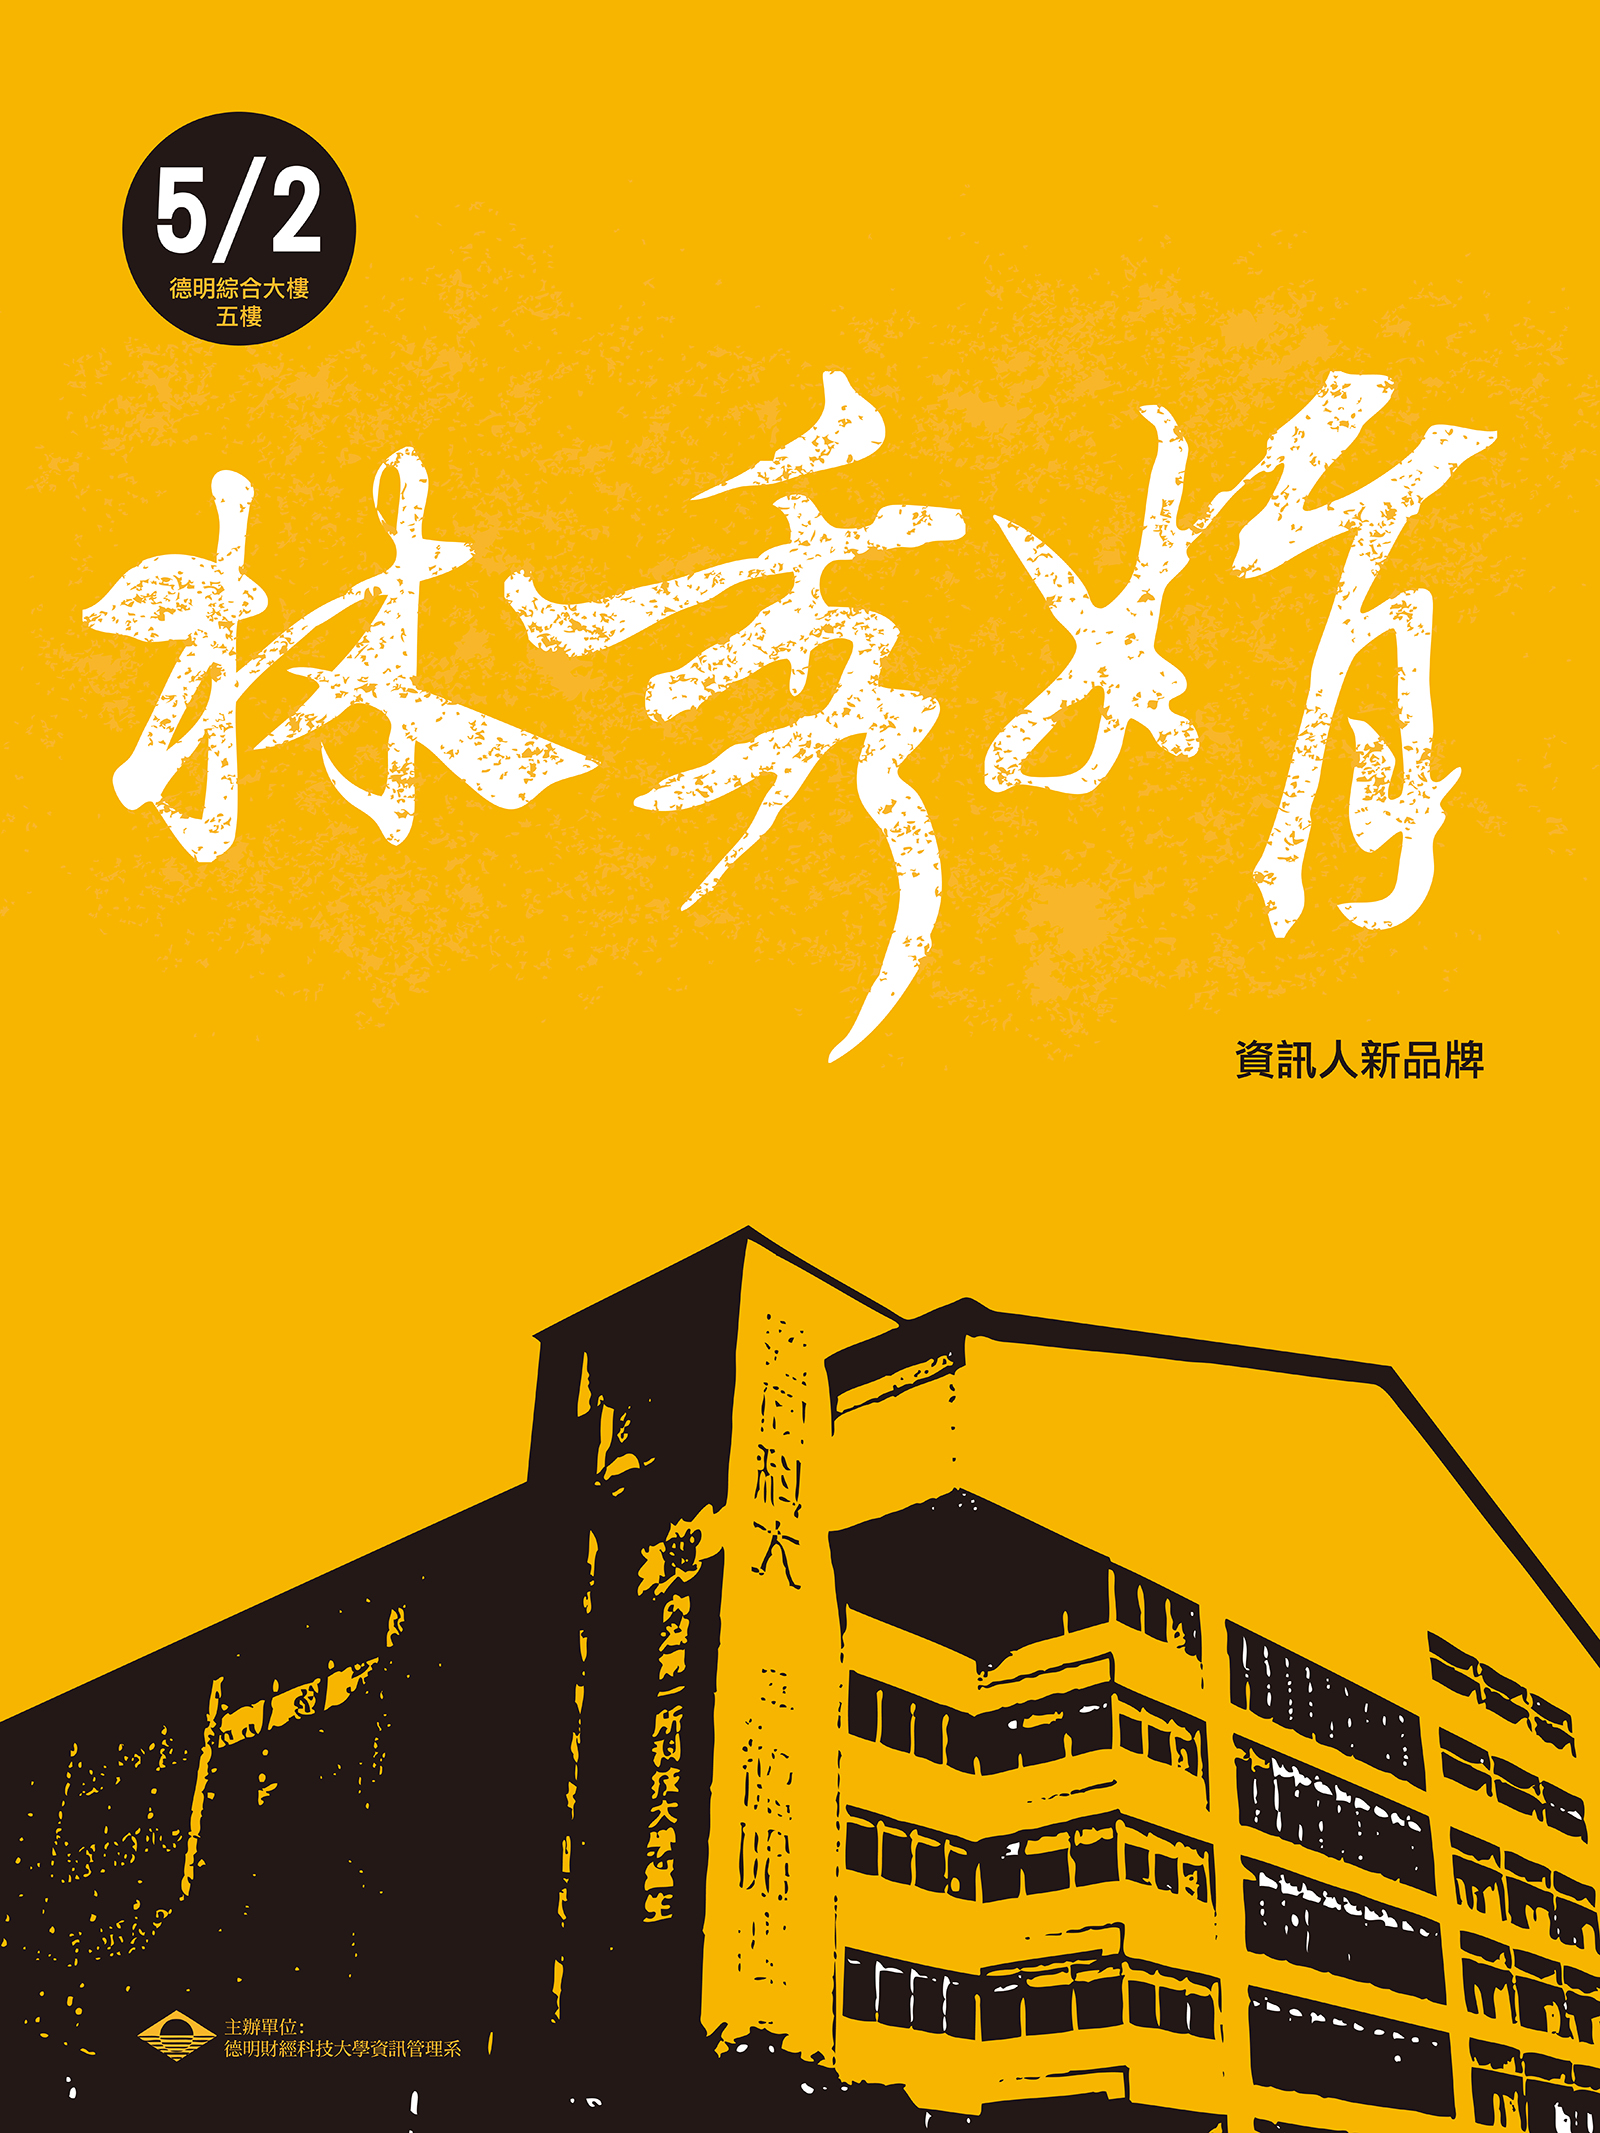
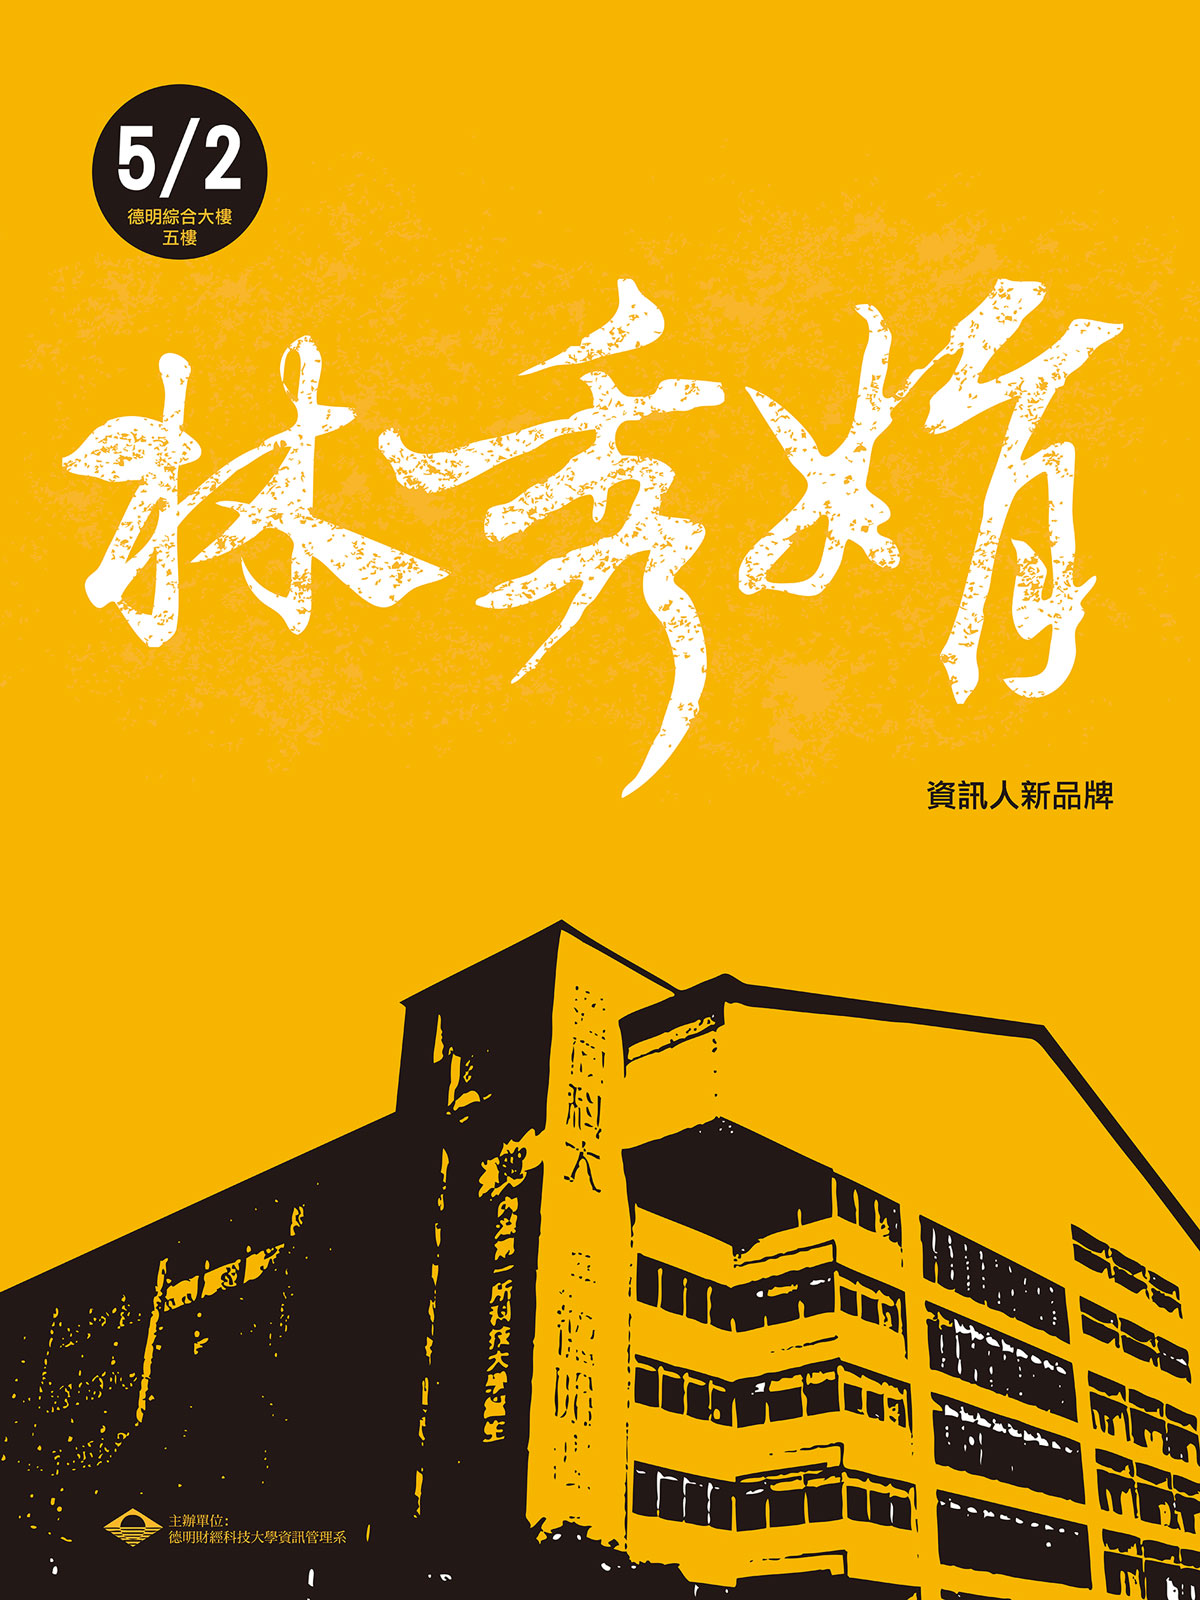
graphic

diff --git a/page4.html b/page4.html
@@ -49,6 +49,9 @@
         <div class="image-grid__item">
           <img class="w-100" src="images/grphics/240731_JR素材_06_1080x1080.jpg" />
         </div>
+        <div class="image-grid__item">
+          <img class="w-100" src="images/grphics/241210_JR素材18張_02_1000x1250.jpg" />
+        </div>
       </div>
   
       <div class="scroller-status">
